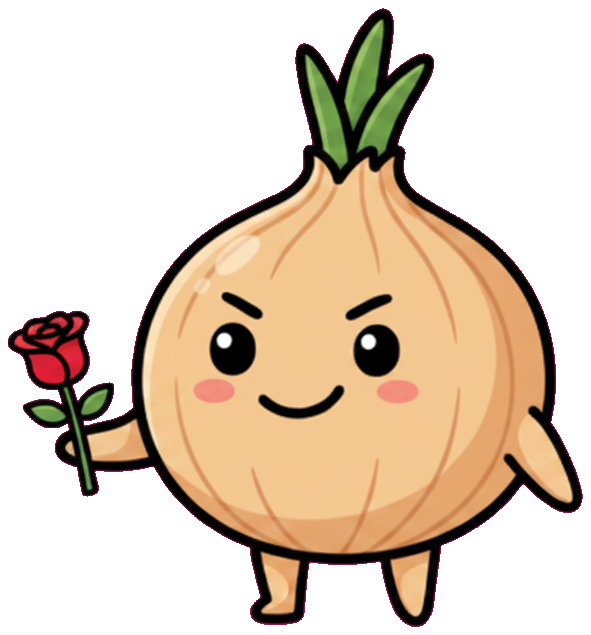
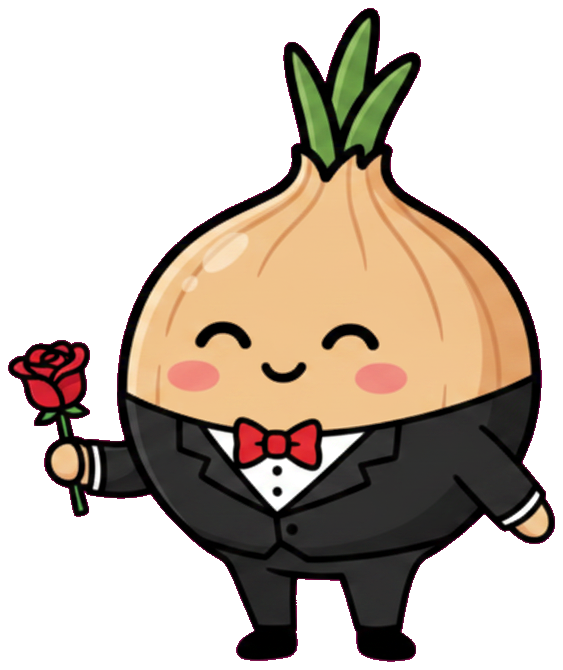
DN geri bildirim turu: utangac yuzler, hizli vals, kalp VS, kalp yagmuru
- Sprite'lar: utangac gulen domates + smokinli gullu sogan + tema kalbi
- Vals girisi 2.6s -> 1.2s (tarif gelmeden vals gorunur)
- Setup VS rozeti DN'de kalp ikonu + bordo gradient
- Final konfetisi DN'de kalp gorseli yagmuru (emoji yok, donmez, salinir)
- Bekleme ekrani kalpleri de ayni gorsel sprite

diff --git a/mobile/screens/ResultScreen.js b/mobile/screens/ResultScreen.js
@@ -27,9 +27,12 @@ import { maybeAskForReview } from '../utils/reviewAsk';
 
 var screenWidth = Dimensions.get('window').width;
 
+var HEART_IMG = require('../assets/datenight/heart.png');
+
 function ConfettiPiece(props) {
   var delay = props.delay;
   var startX = props.startX;
+  var isDn = props.isDn;
 
   var fallAnim = useRef(new Animated.Value(-20)).current;
   var rotateAnim = useRef(new Animated.Value(0)).current;
@@ -40,6 +43,8 @@ function ConfettiPiece(props) {
   var pieceStyle = useRef({
     color: ['#FFD93D', '#FF6B35', '#4ECDC4', '#E74C3C', '#9B59B6', '#3498DB', '#2ECC71'][Math.floor(Math.random() * 7)],
     size: 8 + Math.random() * 8,
+    heartSize: 14 + Math.random() * 14,
+    heartOpacity: 0.75 + Math.random() * 0.25,
   }).current;
   var color = pieceStyle.color;
   var size = pieceStyle.size;
@@ -62,6 +67,26 @@ function ConfettiPiece(props) {
     }, delay);
     return function () { clearTimeout(timeout); };
   }, []);
+
+  if (isDn) {
+    // Date Night: konfeti yerine kalp yağmuru (tema görseli, emoji değil).
+    // Kalp fırıl fırıl dönmez; yaprak gibi hafifçe salınarak süzülür.
+    return (
+      <Animated.View
+        style={{
+          position: 'absolute', left: startX, top: 0,
+          opacity: Animated.multiply(opacityAnim, pieceStyle.heartOpacity),
+          transform: [
+            { translateY: fallAnim },
+            { translateX: swayAnim },
+            { rotate: swayAnim.interpolate({ inputRange: [-30, 30], outputRange: ['-18deg', '18deg'] }) },
+          ],
+        }}
+      >
+        <Image source={HEART_IMG} style={{ width: pieceStyle.heartSize, height: pieceStyle.heartSize * 0.87 }} resizeMode="contain" />
+      </Animated.View>
+    );
+  }
 
   return (
     <Animated.View
@@ -444,7 +469,7 @@ export default function ResultScreen(props) {
 
       <View style={styles.confettiContainer} pointerEvents="none">
         {confettiPieces.map(function (p) {
-          return <ConfettiPiece key={p.id} delay={p.delay} startX={p.startX} />;
+          return <ConfettiPiece key={p.id} delay={p.delay} startX={p.startX} isDn={isDn} />;
         })}
       </View>
 

diff --git a/mobile/screens/SetupScreen.js b/mobile/screens/SetupScreen.js
@@ -118,7 +118,8 @@ function CharacterCard(props) {
   );
 }
 
-function PulseVS() {
+function PulseVS(props) {
+  var isDn = props.isDn;
   var pulseAnim = useRef(new Animated.Value(1)).current;
   var glowAnim = useRef(new Animated.Value(0.2)).current;
   var rotateAnim = useRef(new Animated.Value(0)).current;
@@ -169,8 +170,8 @@ function PulseVS() {
       <Animated.Text style={[styles.vsSpark, { top: -8, right: -2, opacity: sparkAnim1, transform: [{ scale: sparkAnim1 }] }]}>✦</Animated.Text>
       <Animated.Text style={[styles.vsSpark, { bottom: -6, left: -4, opacity: sparkAnim2, transform: [{ scale: sparkAnim2 }] }]}>✦</Animated.Text>
       <Animated.View style={[styles.vsBadge, { transform: [{ scale: pulseAnim.interpolate({ inputRange: [1, 1.3], outputRange: [1, 1.1] }) }] }]}>
-        <LinearGradient colors={['#FF6B35', '#E85D26', '#D44F1C']} style={styles.vsBadgeGradient}>
-          <Text style={styles.vsText}>VS</Text>
+        <LinearGradient colors={isDn ? ['#8B2E44', '#5C1A2B', '#3A1420'] : ['#FF6B35', '#E85D26', '#D44F1C']} style={styles.vsBadgeGradient}>
+          {isDn ? <Ionicons name="heart" size={20} color="#E8B4A0" /> : <Text style={styles.vsText}>VS</Text>}
         </LinearGradient>
       </Animated.View>
     </View>
@@ -306,7 +307,7 @@ export default function SetupScreen(props) {
 
             <View style={styles.cardsRow}>
               <CharacterCard image={isDn ? require('../assets/datenight/cook.png') : require('../assets/cook.png')} label="COOK" name={cookName} onChangeName={setCookName} animDelay={200} accentColor={isDn ? DN.gold : '#4ECDC4'} />
-              <PulseVS />
+              <PulseVS isDn={isDn} />
               <CharacterCard image={isDn ? require('../assets/datenight/challenger.png') : require('../assets/challenger.png')} label="CHALLENGER" name={challengerName} onChangeName={setChallengerName} animDelay={400} accentColor={isDn ? DN.rosePink : '#FF6B35'} />
             </View>
 

diff --git a/mobile/components/DateNightDance.js b/mobile/components/DateNightDance.js
@@ -12,11 +12,12 @@ var screenHeight = Dimensions.get('window').height;
 
 var TOMATO_IMG = require('../assets/datenight/tomato.png');
 var ONION_IMG = require('../assets/datenight/onion.png');
+var HEART_IMG = require('../assets/datenight/heart.png');
 
 var CHARACTER_SIZE = 110;
 var MEET_Y = screenHeight * 0.30;      // buluşma yüksekliği
 var ORBIT_RADIUS = 62;                 // vals yörünge yarıçapı
-var ENTRANCE_MS = 2600;                // yavaş giriş süresi
+var ENTRANCE_MS = 1200;                // giriş süresi (kısa: vals, tarif gelmeden görünsün)
 var ORBIT_MS = 11000;                  // tam tur süresi (yavaş vals)
 
 // Tek bir yükselen kalp: doğar, süzülerek yükselir, soluklaşır
@@ -30,13 +31,11 @@ function RisingHeart(props) {
   }, []);
 
   return (
-    <Animated.Text
+    <Animated.View
       style={{
         position: 'absolute',
         left: props.x,
         top: props.y,
-        fontSize: props.size,
-        color: props.color,
         opacity: rise.interpolate({ inputRange: [0, 0.15, 0.7, 1], outputRange: [0, 0.9, 0.7, 0] }),
         transform: [
           { translateY: rise.interpolate({ inputRange: [0, 1], outputRange: [0, -130] }) },
@@ -45,8 +44,8 @@ function RisingHeart(props) {
         ],
       }}
     >
-      ♥
-    </Animated.Text>
+      <Image source={HEART_IMG} style={{ width: props.size, height: props.size * 0.87 }} resizeMode="contain" />
+    </Animated.View>
   );
 }
 
@@ -136,8 +135,8 @@ export default function DateNightDance() {
             color: HEART_COLORS[Math.floor(Math.random() * HEART_COLORS.length)],
           }]);
         });
-      }, 900);
-    }, ENTRANCE_MS + 150);
+      }, 700);
+    }, ENTRANCE_MS + 100);
 
     return function () {
       bounceLoop.stop();
